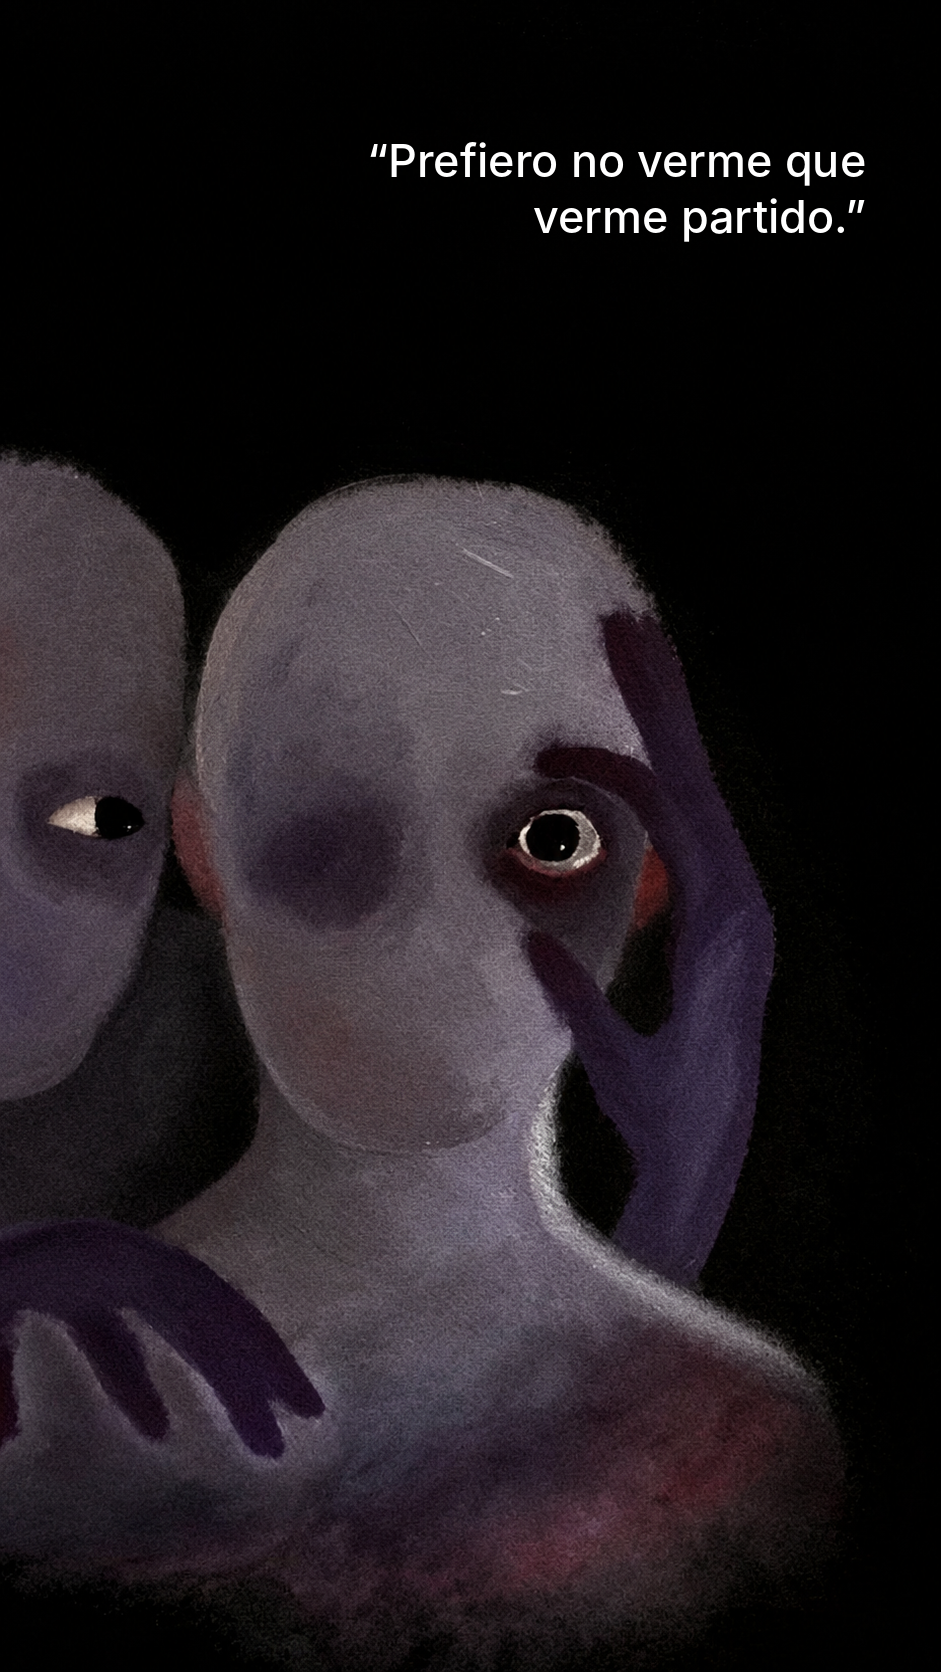
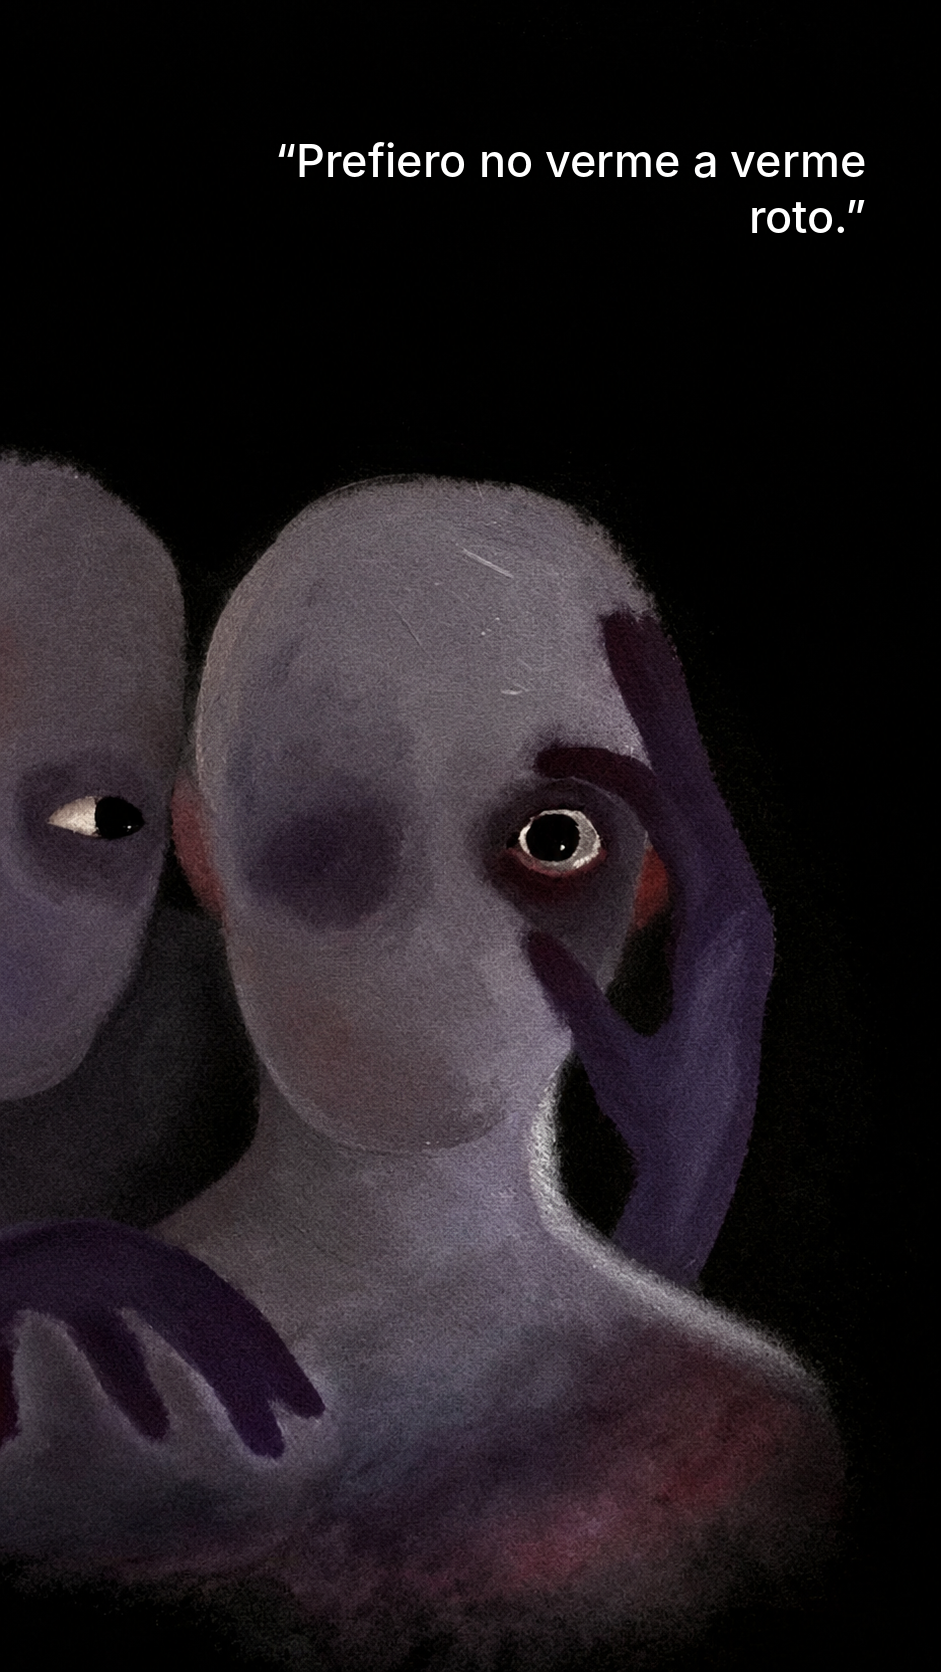
Espejo roto: guion simplificado y cierre explicativo bajo los personajes
Claude-Session: https://claude.ai/code/session_01APr9B7FbDAvfE976rXgtYH

Changed region(s): [[0.3082, 0.0622, 0.8937, 0.1555]]

diff --git a/tools/generar_frames.py b/tools/generar_frames.py
@@ -43,6 +43,13 @@ def frame(who, text, text2, base):
         block(d, text, int(W * 0.055), m, int(H * 0.06), W - 2 * m, "left")
     elif who == "palido":
         block(d, text, int(W * 0.048), W - m, int(H * 0.08), int(W * 0.68), "right")
+    elif not text2:
+        # cierre: explicación centrada debajo de los dos personajes
+        font = ImageFont.truetype(FONT, int(W * 0.043))
+        y = int(H * 0.76)
+        for line in wrap(d, text, font, int(W * 0.84)):
+            d.text(((W - d.textlength(line, font=font)) / 2, y), line, font=font, fill="white")
+            y += int(W * 0.043 * 1.4)
     else:
         y = block(d, text, int(W * 0.055), m, int(H * 0.04), W - 2 * m, "left")
         block(d, text2, int(W * 0.048), W - m, y + int(H * 0.015), int(W * 0.68), "right")
